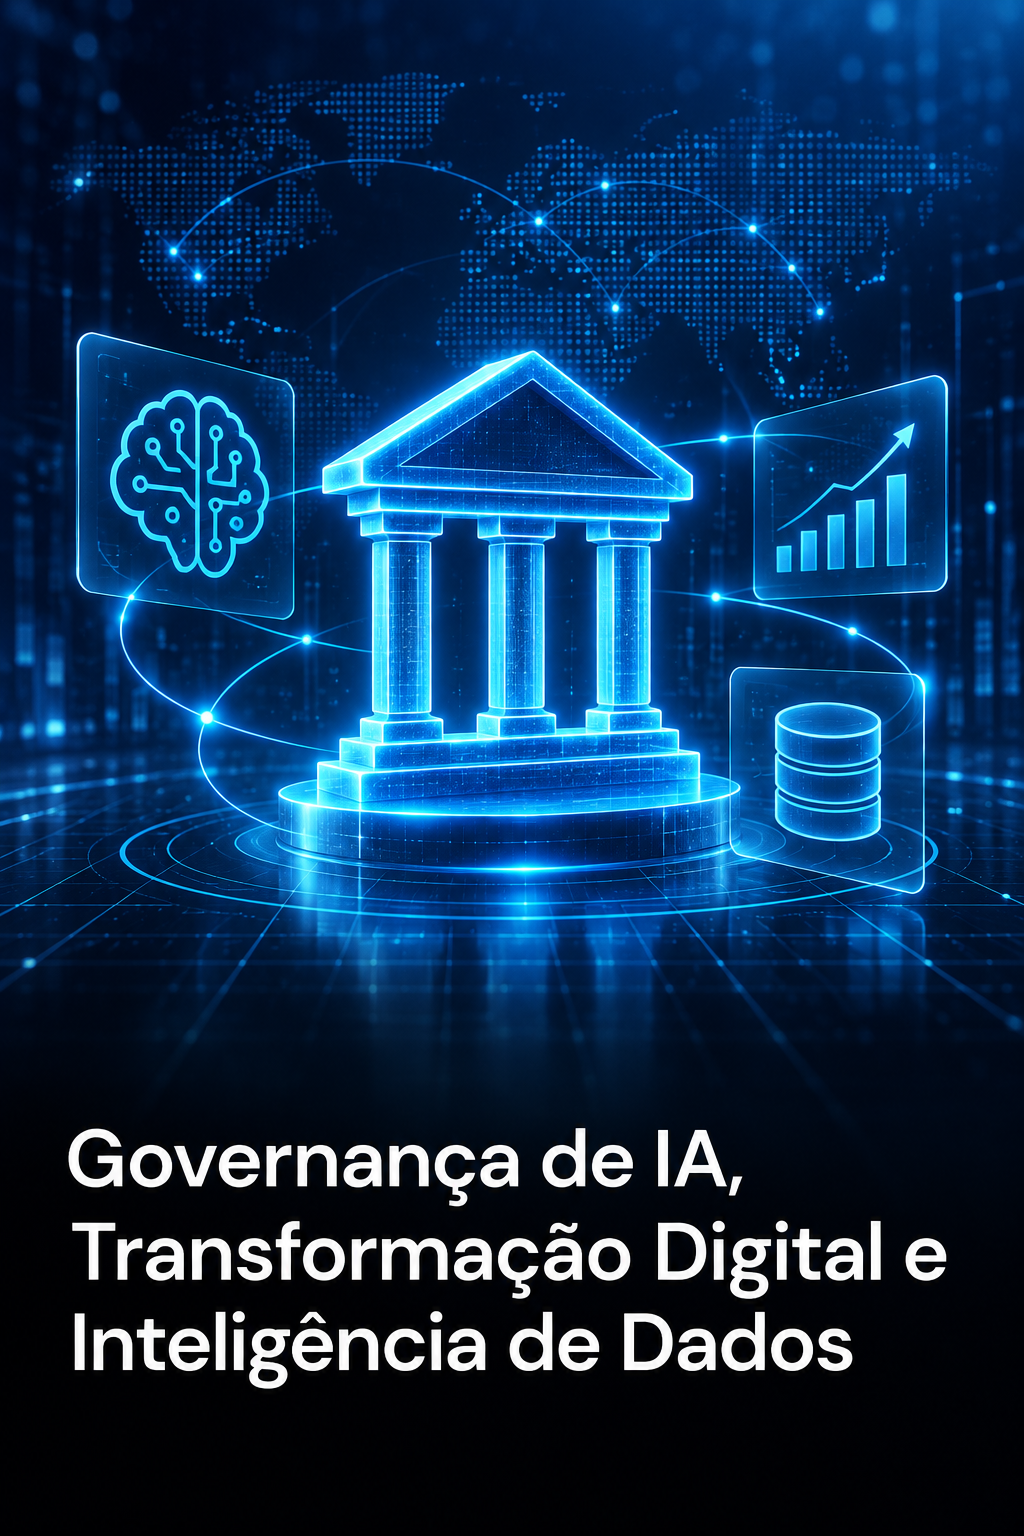
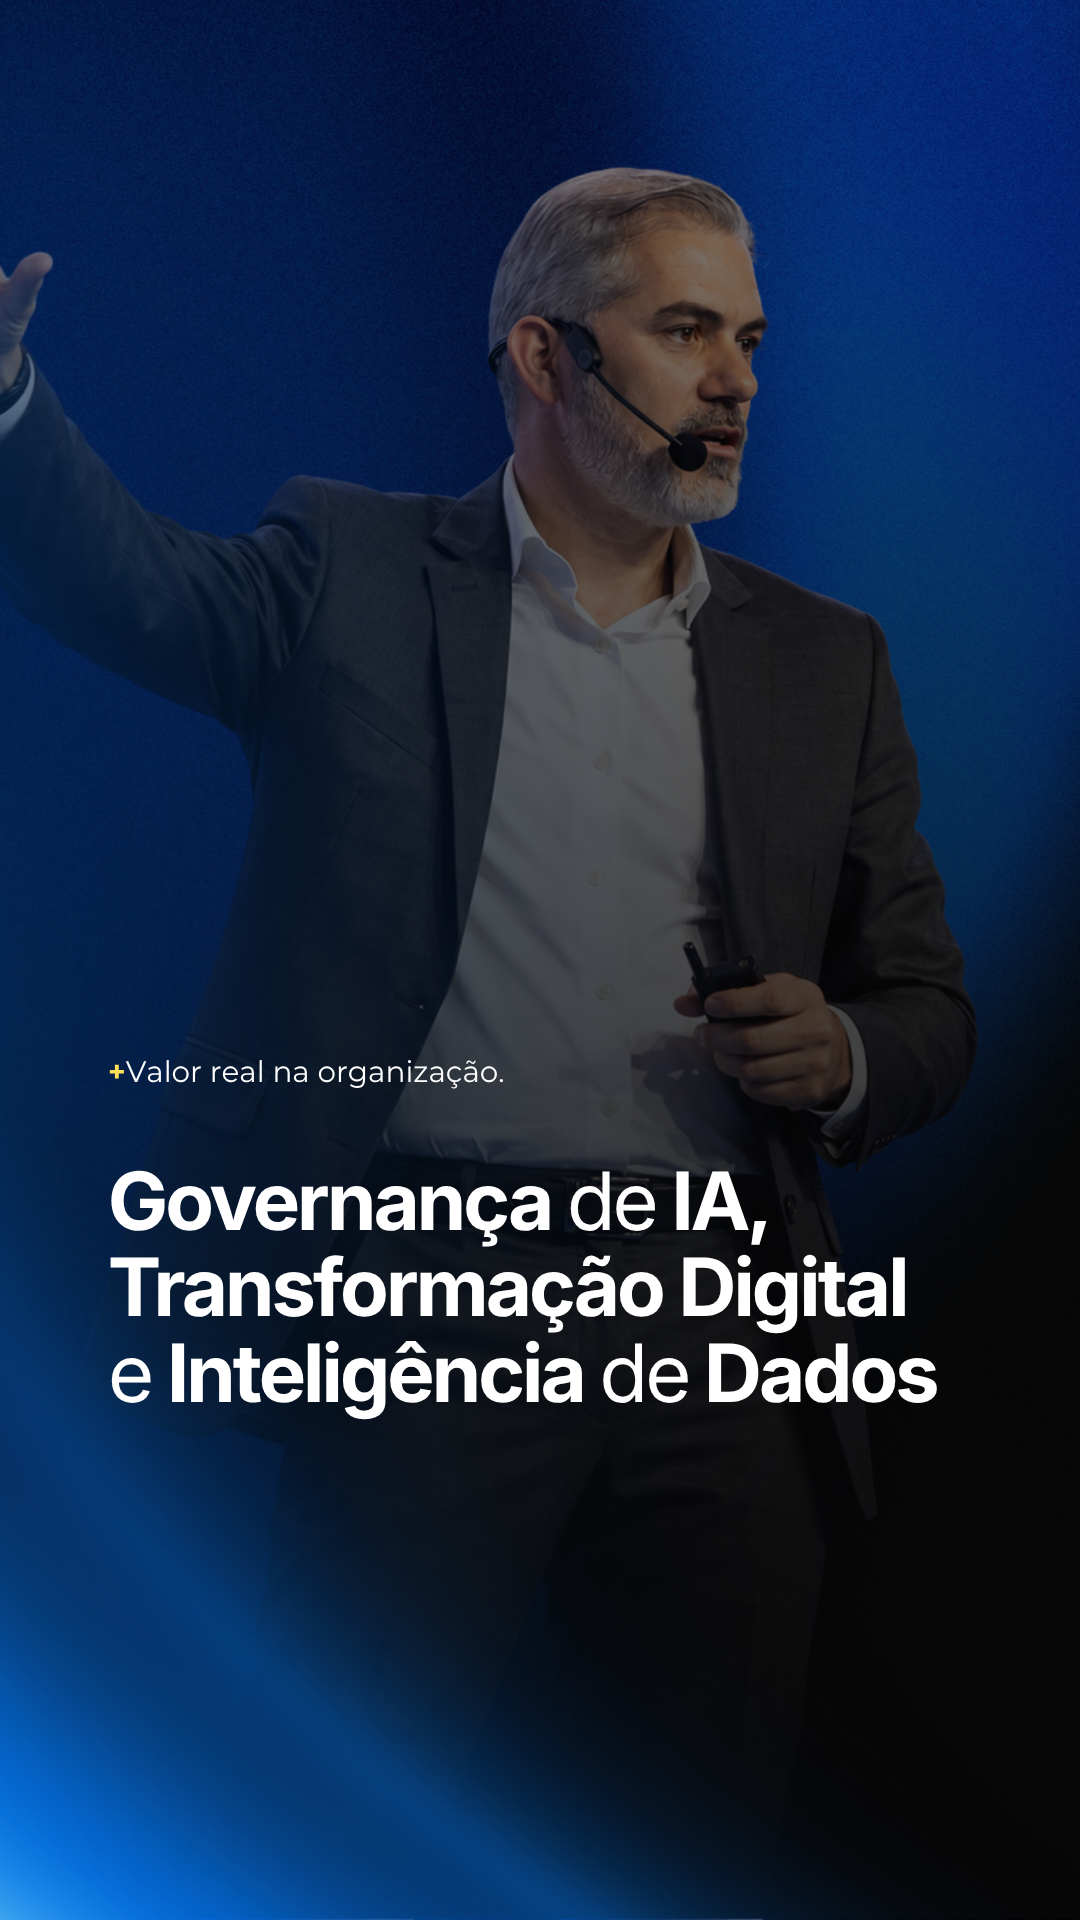
Trocar capas dos cards em "Temas de Palestra" e ajustar CTA "Ver mais"
Substitui tema-1/2/3.png pelas novas capas fornecidas por Caio, na
mesma ordem dos temas já existentes (Governança de IA, Tendências,
Planejamento orientado por dados). Aumenta a fonte do CTA "Ver mais"
de text-sm para text-base. O ícone da seta (ArrowUpRight, lucide-react)
já era Lucide com o ângulo pedido, sem alteração necessária.

diff --git a/components/speaking-topics.tsx b/components/speaking-topics.tsx
@@ -52,6 +52,16 @@ import {
 // Atualização de conteúdo (Caio, 2026-09-23): os 3 temas passam a ter
 // título e descrição reais fornecidos por Caio, substituindo o
 // conteúdo anterior (incluindo o placeholder lorem ipsum do Tema 3).
+//
+// Troca de capas (Caio, 2026-09-23 — "temos novas capas"): os 3
+// arquivos em public/images/temas/tema-{1,2,3}.png são substituídos
+// pelas novas capas fornecidas (mesmo nome de arquivo, só o conteúdo
+// da imagem muda — nenhuma alteração de caminho aqui). As versões
+// "-sem-texto" usadas no modal não foram tocadas (Caio só mencionou
+// capas). CTA "Ver mais": fonte sobe de text-sm para text-base
+// ("deixe-o com a fonte um pouquinho maior"); o ícone da seta
+// (`ArrowUpRight`, lucide-react) já era Lucide e já tinha o ângulo
+// diagonal pedido — nenhuma troca de ícone foi necessária.
 const TOPICS = [
   {
     value: "governanca-ia",
@@ -147,7 +157,7 @@ export function SpeakingTopics() {
                         pedido explicitamente só para este botão. */}
                     <span
                       aria-hidden="true"
-                      className="absolute bottom-5 left-5 z-[1] inline-flex items-center gap-2 rounded-[12px] bg-[var(--on-dark)]/25 px-7 py-3.5 text-sm font-semibold text-[var(--on-dark)] backdrop-blur-sm transition-colors duration-[var(--motion-fast)] ease-[var(--ease-out-soft)] group-hover:bg-[var(--on-dark)]/35"
+                      className="absolute bottom-5 left-5 z-[1] inline-flex items-center gap-2 rounded-[12px] bg-[var(--on-dark)]/25 px-7 py-3.5 text-base font-semibold text-[var(--on-dark)] backdrop-blur-sm transition-colors duration-[var(--motion-fast)] ease-[var(--ease-out-soft)] group-hover:bg-[var(--on-dark)]/35"
                     >
                       Ver mais
                       <ArrowUpRight
